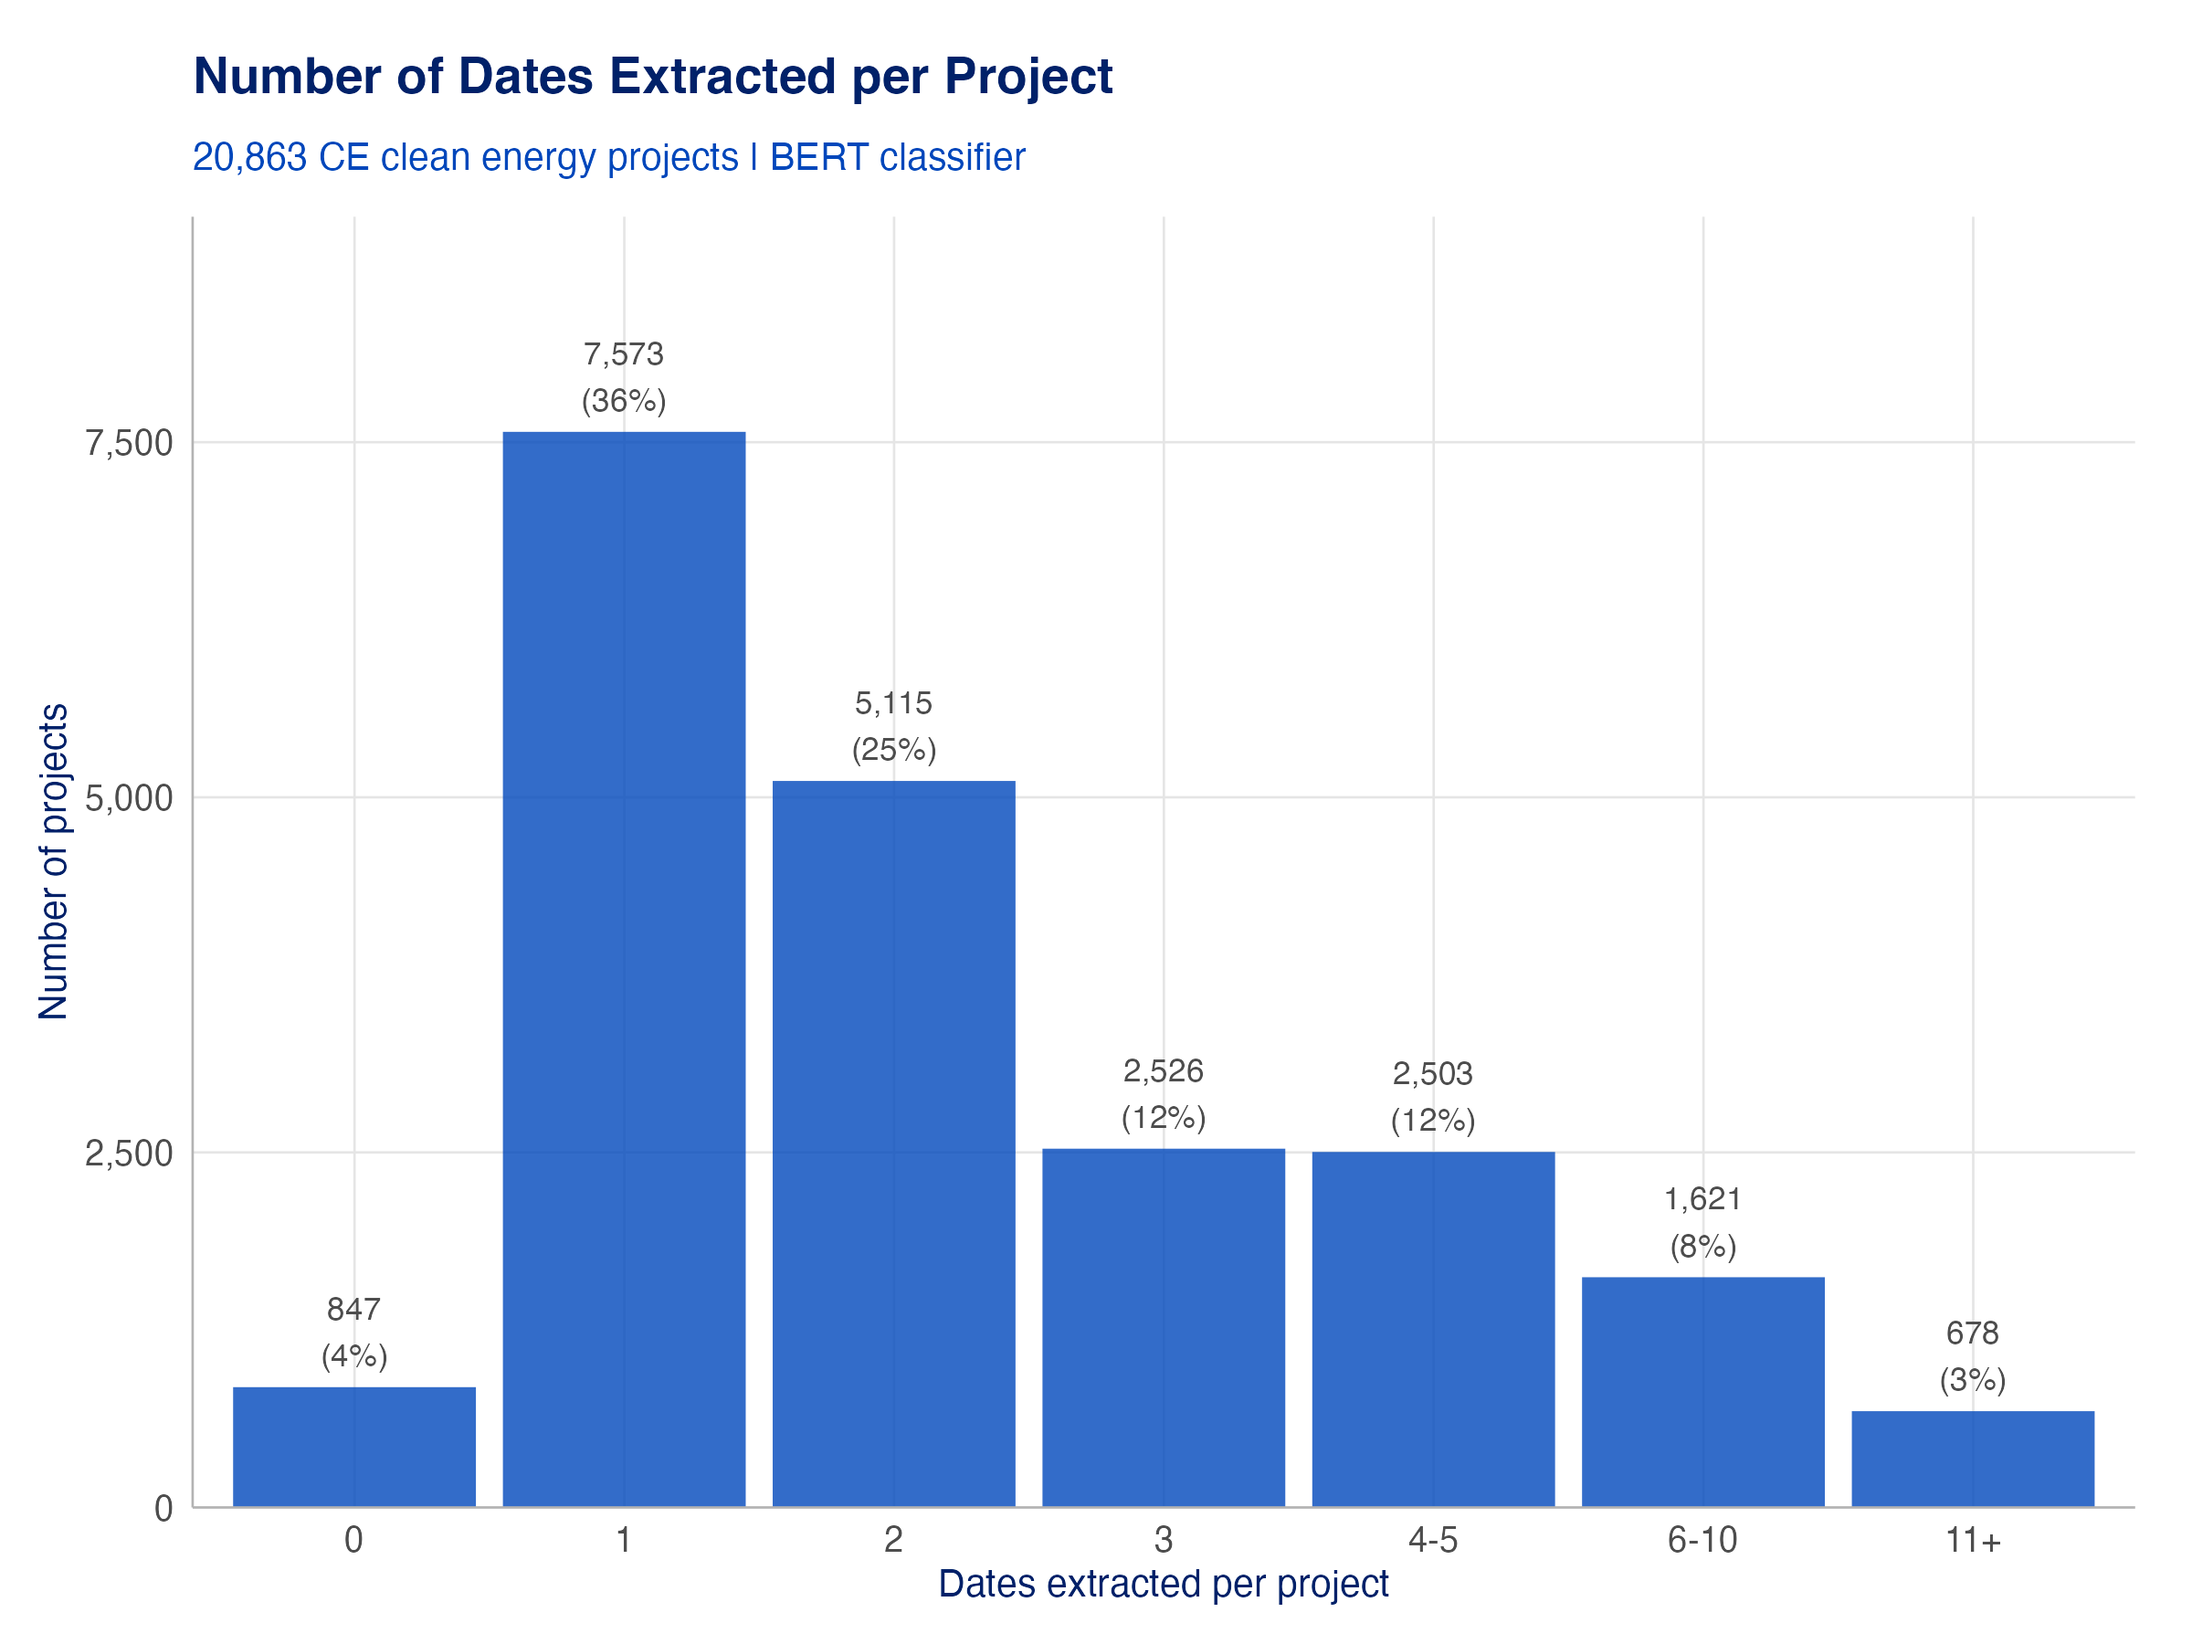
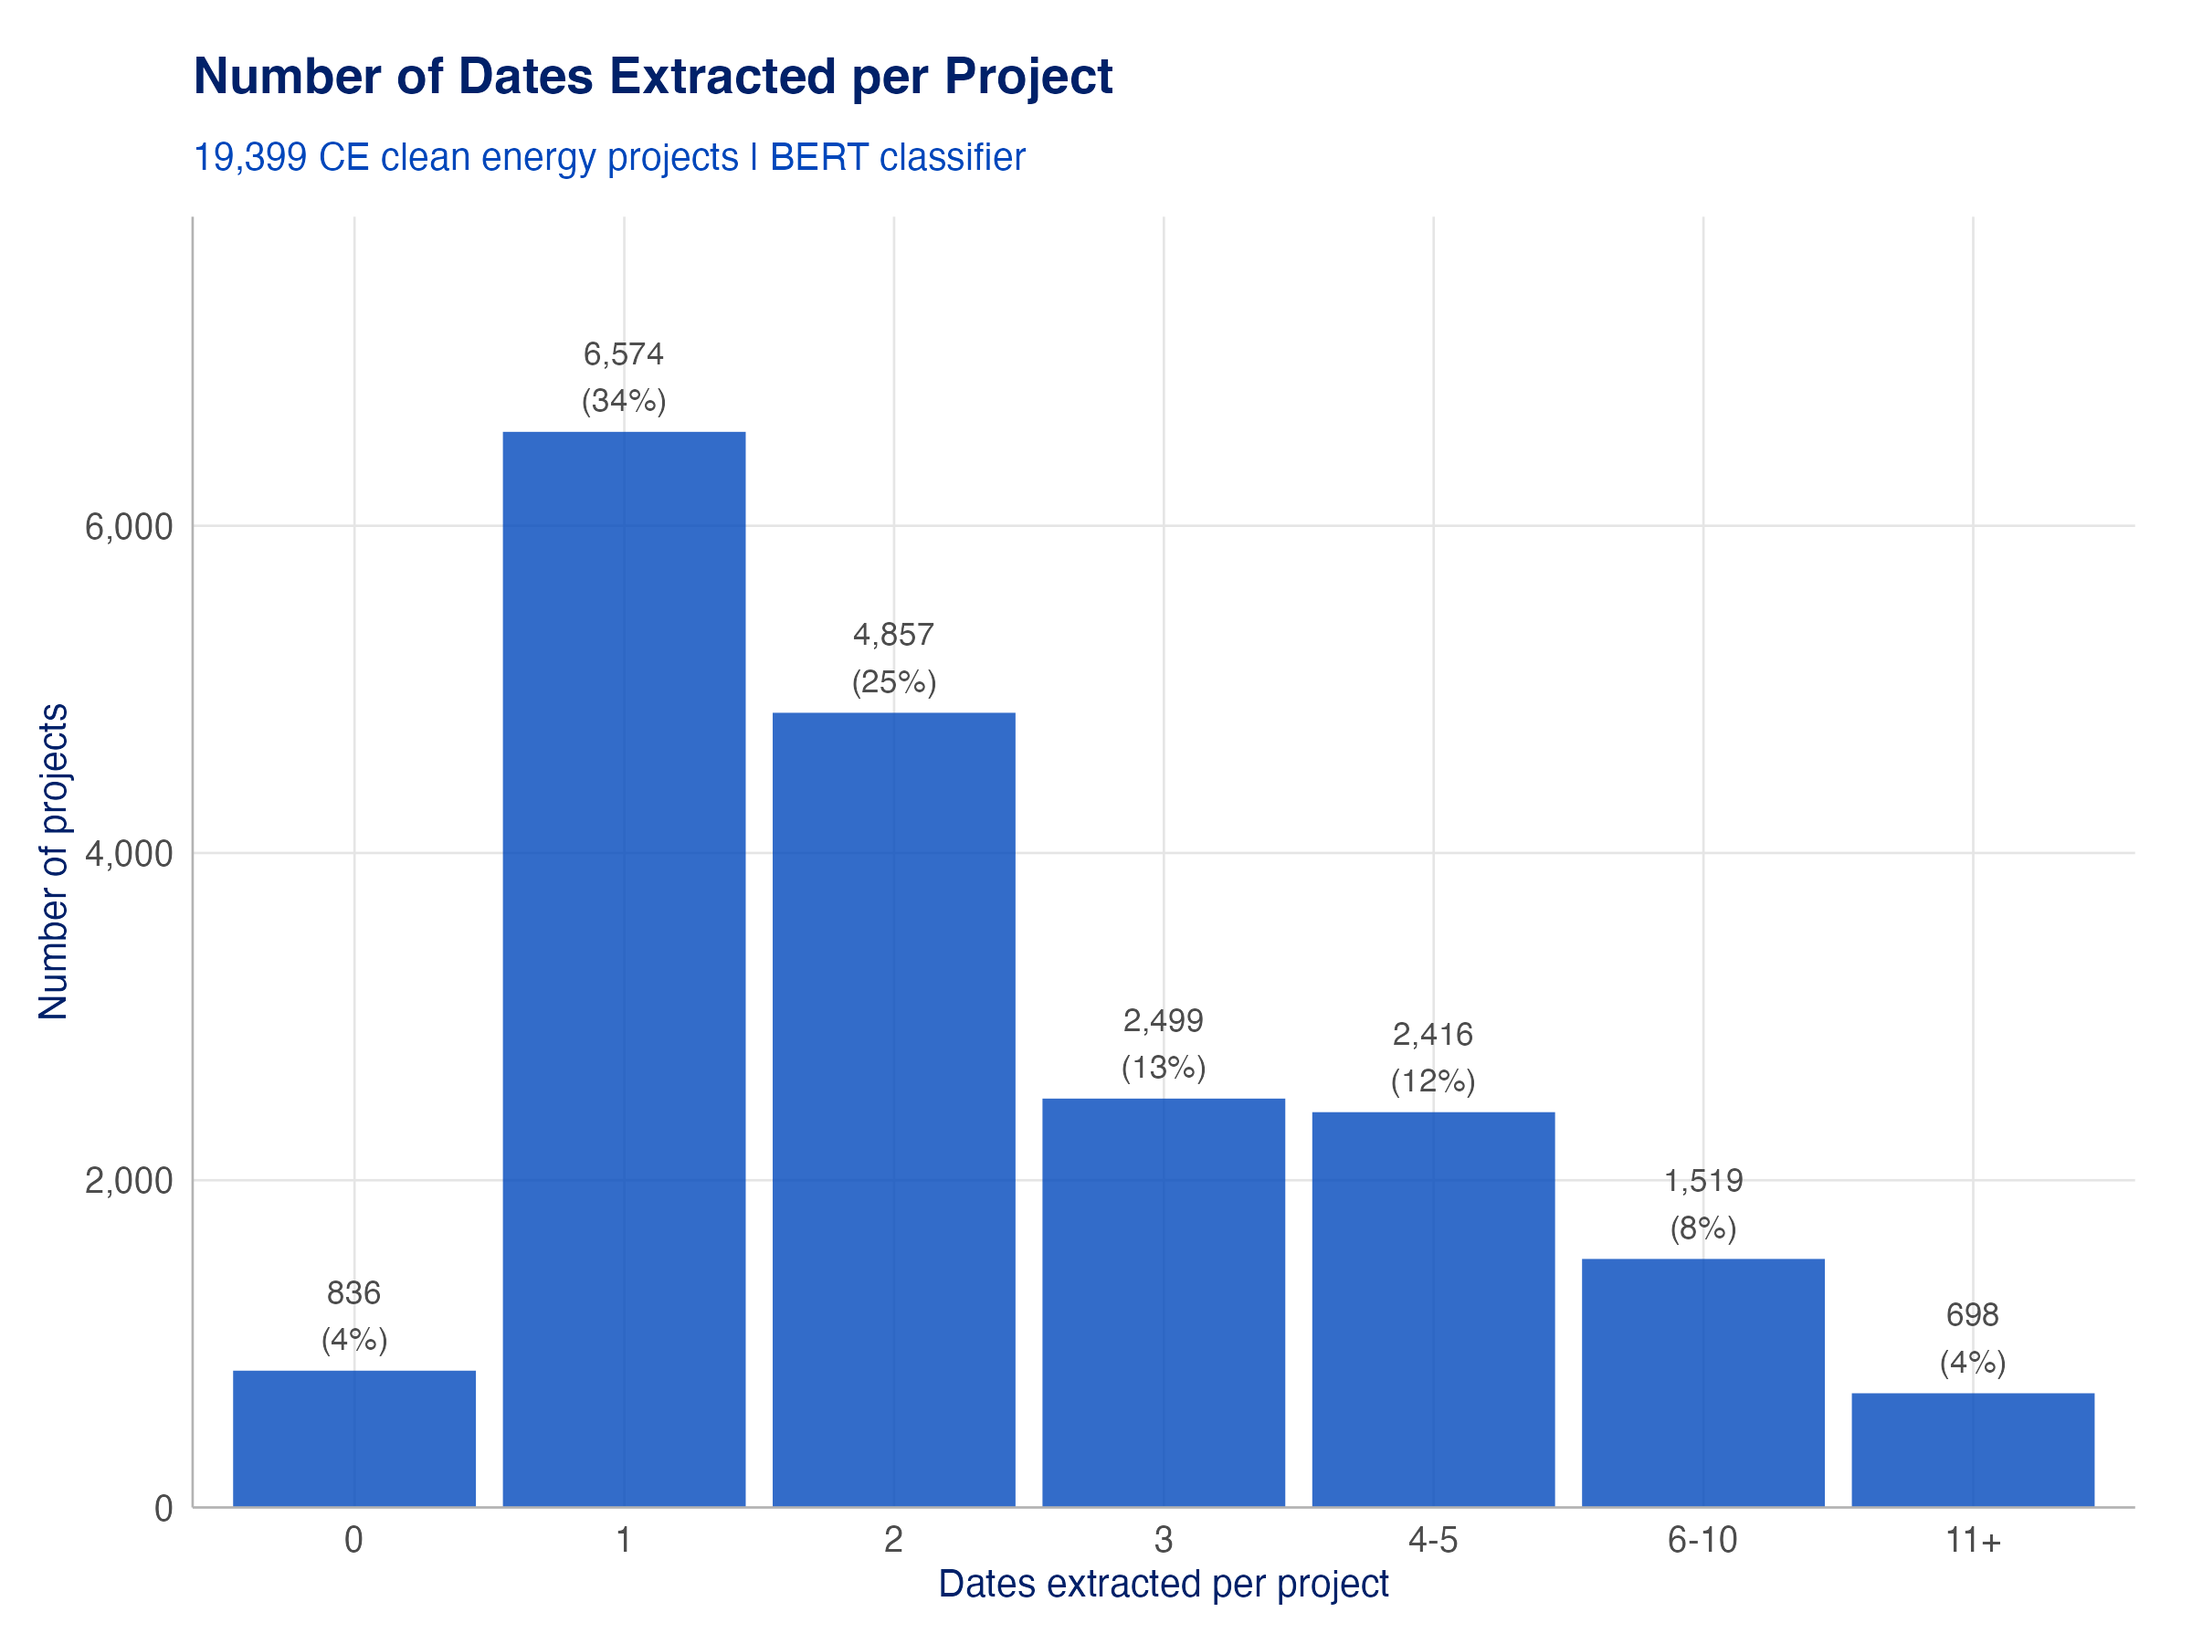
timeline updates

diff --git a/notes/status/timeline_status.md b/notes/status/timeline_status.md
@@ -1,6 +1,6 @@
 # Timeline Extraction Status
 
-**Last updated**: 2026-01-30 (end of day)
+**Last updated**: 2026-02-12
 
 This document summarizes the current state of timeline extraction for the NEPA project. Read this file to understand timeline-related work without needing to explore the full codebase.
 
@@ -411,6 +411,73 @@ Comparison: `test20_workers.parquet` vs `test20_hybrid3_instruct.parquet` (both 
    - **Action:** Implement a narrow Recovery‑Act signature extraction that keeps the signature tail when “Recovery Act” and signature cues appear on the same line.  
    - **Goal:** Flip those 7 misses to decisions without hurting overall decision precision.
 
+## Updates Added (2026-02-12)
+
+Reviewed 11 misclassified projects from the BERT full run (`projects_timeline_bert.parquet`) and identified 7 systematic error patterns. Implemented 9 targeted fixes in `extract_timeline.py` to address them. These fixes affect both BERT training data (via auto-labeling patterns) and post-BERT guardrails/scoring.
+
+### Projects Reviewed
+
+| Project ID | Issue |
+|---|---|
+| `1df6f8b5` | "Initial and Date:" specialist sign-off misread as initiation |
+| `5ec95c90` | "AUTHORITY AND APPROVAL" not winning as final decision |
+| `58cab57e` | "Form Status: Approved" caught by too-broad boilerplate pattern |
+| `8de424f4` | Historical gap rule only fires once (single-pass) |
+| `e74f6ef2` | "reviewed" in INITIATION_CUES causing misclassification |
+| `b523e342` | YYYY.MM.DD timestamp not recognized as digital signature; "Approval and Contact Information" not a strong decision cue |
+| `cec29e92` | Initiation date after decision not hard-rejected |
+| `3e3bb9f5` | "expire on [date]" not caught for past dates; "Initial and Date:" issue |
+| `6149175c` | ROW application as initiation (appears correct) |
+| `5c0911d5` | "Date Determined" winning over digital signature date |
+| `e0f39636` | "District Manager" absent from decision patterns; no other→decision guardrail |
+
+### Systematic Patterns Found
+
+- **A.** "Initial and Date:" on BLM specialist checklists misread as initiation
+- **B.** Missing decision-maker patterns (District Manager, Approval and Contact Information, YYYY.MM.DD timestamps)
+- **C.** No other→decision guardrail — BERT "other" not corrected even when strong decision cue exists
+- **D.** Expiration detection gated on >2025 year — misses "expire on [past date]"
+- **E.** Historical gap rule finds first gap only — misses multi-cluster projects
+- **F.** Initiation after decision only penalized (-3), not rejected
+- **G.** "reviewed" in INITIATION_CUES causes false initiation labels
+
+### Fixes Implemented (9 of 10 proposed)
+
+1. **"Initial and Date:" → review** — Added `initial and date` and `initials?\s*&\s*date` to `REVIEW_PATTERNS_STRONG` and `INITIATION_EXCLUSION_PATTERNS`. (Patterns A)
+
+2. **Missing decision patterns** — Added `district manager`, `approval and contact information`, `\d{4}\.\d{2}\.\d{2}` (YYYY.MM.DD timestamps) to `DECISION_PATTERNS_STRONG`. (Pattern B)
+
+3. **other→decision guardrail** — New guardrail in `extract_with_bert()`: if BERT classifies as "other" but context has a strong decision cue, reclassify to "decision". (Pattern C)
+
+4. **Expiration detection expanded** — `_is_expiration_candidate()` now fires on expiration language cues regardless of date, not just for dates after 2025-12-31. (Pattern D)
+
+5. **Historical gap rule: last gap wins** — `_apply_historical_gap_rule()` now finds the LAST gap > 730 days (not the first), marking all dates before it as historical. Catches multi-cluster projects. (Pattern E)
+
+6. **Hard-reject initiation after decision** — `_select_best_initiation()` now skips (continues past) candidates with dates after the decision date instead of penalizing by -3. (Pattern F)
+
+7. *(Skipped)* **Dedupe by date before type** — Not implemented. Would change dedupe key from `(date, type)` to `(date)`. Risk: loses legitimate same-day multi-event entries. Other fixes likely address the edge cases that motivated this.
+
+8. **"AUTHORITY AND APPROVAL" → tier 4** — `_decision_strength()` now returns 4 for `authority and approval` and `determination and approval`, above the tier 3 default for strong patterns. (Pattern B)
+
+9. **Tighten "form approved" boilerplate** — Changed `r'form approved'` to `r'form approved\s*(omb|omg)'` in `DECISION_BOILERPLATE_PATTERNS` so "Form Status: Approved" is not penalized as boilerplate. (Pattern related to `58cab57e`)
+
+10. **Remove "reviewed" from INITIATION_CUES** — Deleted `'reviewed'` from the hybrid `INITIATION_CUES` list. This cue belongs in review contexts, not initiation. (Pattern G)
+
+### Impact Assessment
+
+- **Fixes 1, 2, 10** affect auto-labeling (`auto_label_context()`) — require `--bert-generate` + `--bert-train` to take full effect
+- **Fixes 3, 4, 5, 6, 8, 9** are post-BERT guardrails/scoring — take effect immediately on next `--bert-run`
+- Highest-impact fixes: **1, 2, 3, 6** (address the most projects)
+
+### Next Steps
+
+1. Regenerate BERT training data: `python extract_timeline.py --bert-generate`
+2. Retrain BERT model: `python extract_timeline.py --bert-train`
+3. Test on the 11 misclassified projects: `python extract_timeline.py --bert-run --sample 50 --output test50_bert_v9.parquet`
+4. If results improve, full run: `python extract_timeline.py --bert-run --output projects_timeline_bert.parquet`
+
+---
+
 ## File References
 
 | File | Purpose |
@@ -457,6 +524,21 @@ python extract_timeline.py --bert-run --output projects_timeline_bert.parquet  #
 ---
 
 ## Change Log
+
+### 2026-02-12 - BERT v9 Guardrail Fixes
+- **Reviewed 11 misclassified projects** from BERT full run, identified 7 systematic error patterns
+- **Implemented 9 fixes** in `extract_timeline.py` targeting misclassification root causes
+- Added "Initial and Date:" to review patterns + initiation exclusions
+- Added missing decision patterns: district manager, approval and contact information, YYYY.MM.DD timestamps
+- New other→decision guardrail in `extract_with_bert()`
+- Expiration detection no longer gated on >2025 year
+- Historical gap rule now finds LAST gap (multi-cluster support)
+- Hard-reject initiation dates after decision (was soft penalty)
+- "AUTHORITY AND APPROVAL" boosted to tier 4 decision strength
+- Tightened "form approved" boilerplate to OMB-only (`form approved\s*(omb|omg)`)
+- Removed "reviewed" from `INITIATION_CUES`
+- **Not implemented**: dedupe by date-only (risk of losing legitimate same-day events)
+- **Next**: regenerate training data, retrain, re-run on sample + full
 
 ### 2026-01-30 (PM) - BERT Classifier
 - **Added BERT-based classification as alternative to LLM** (50-100x faster)
